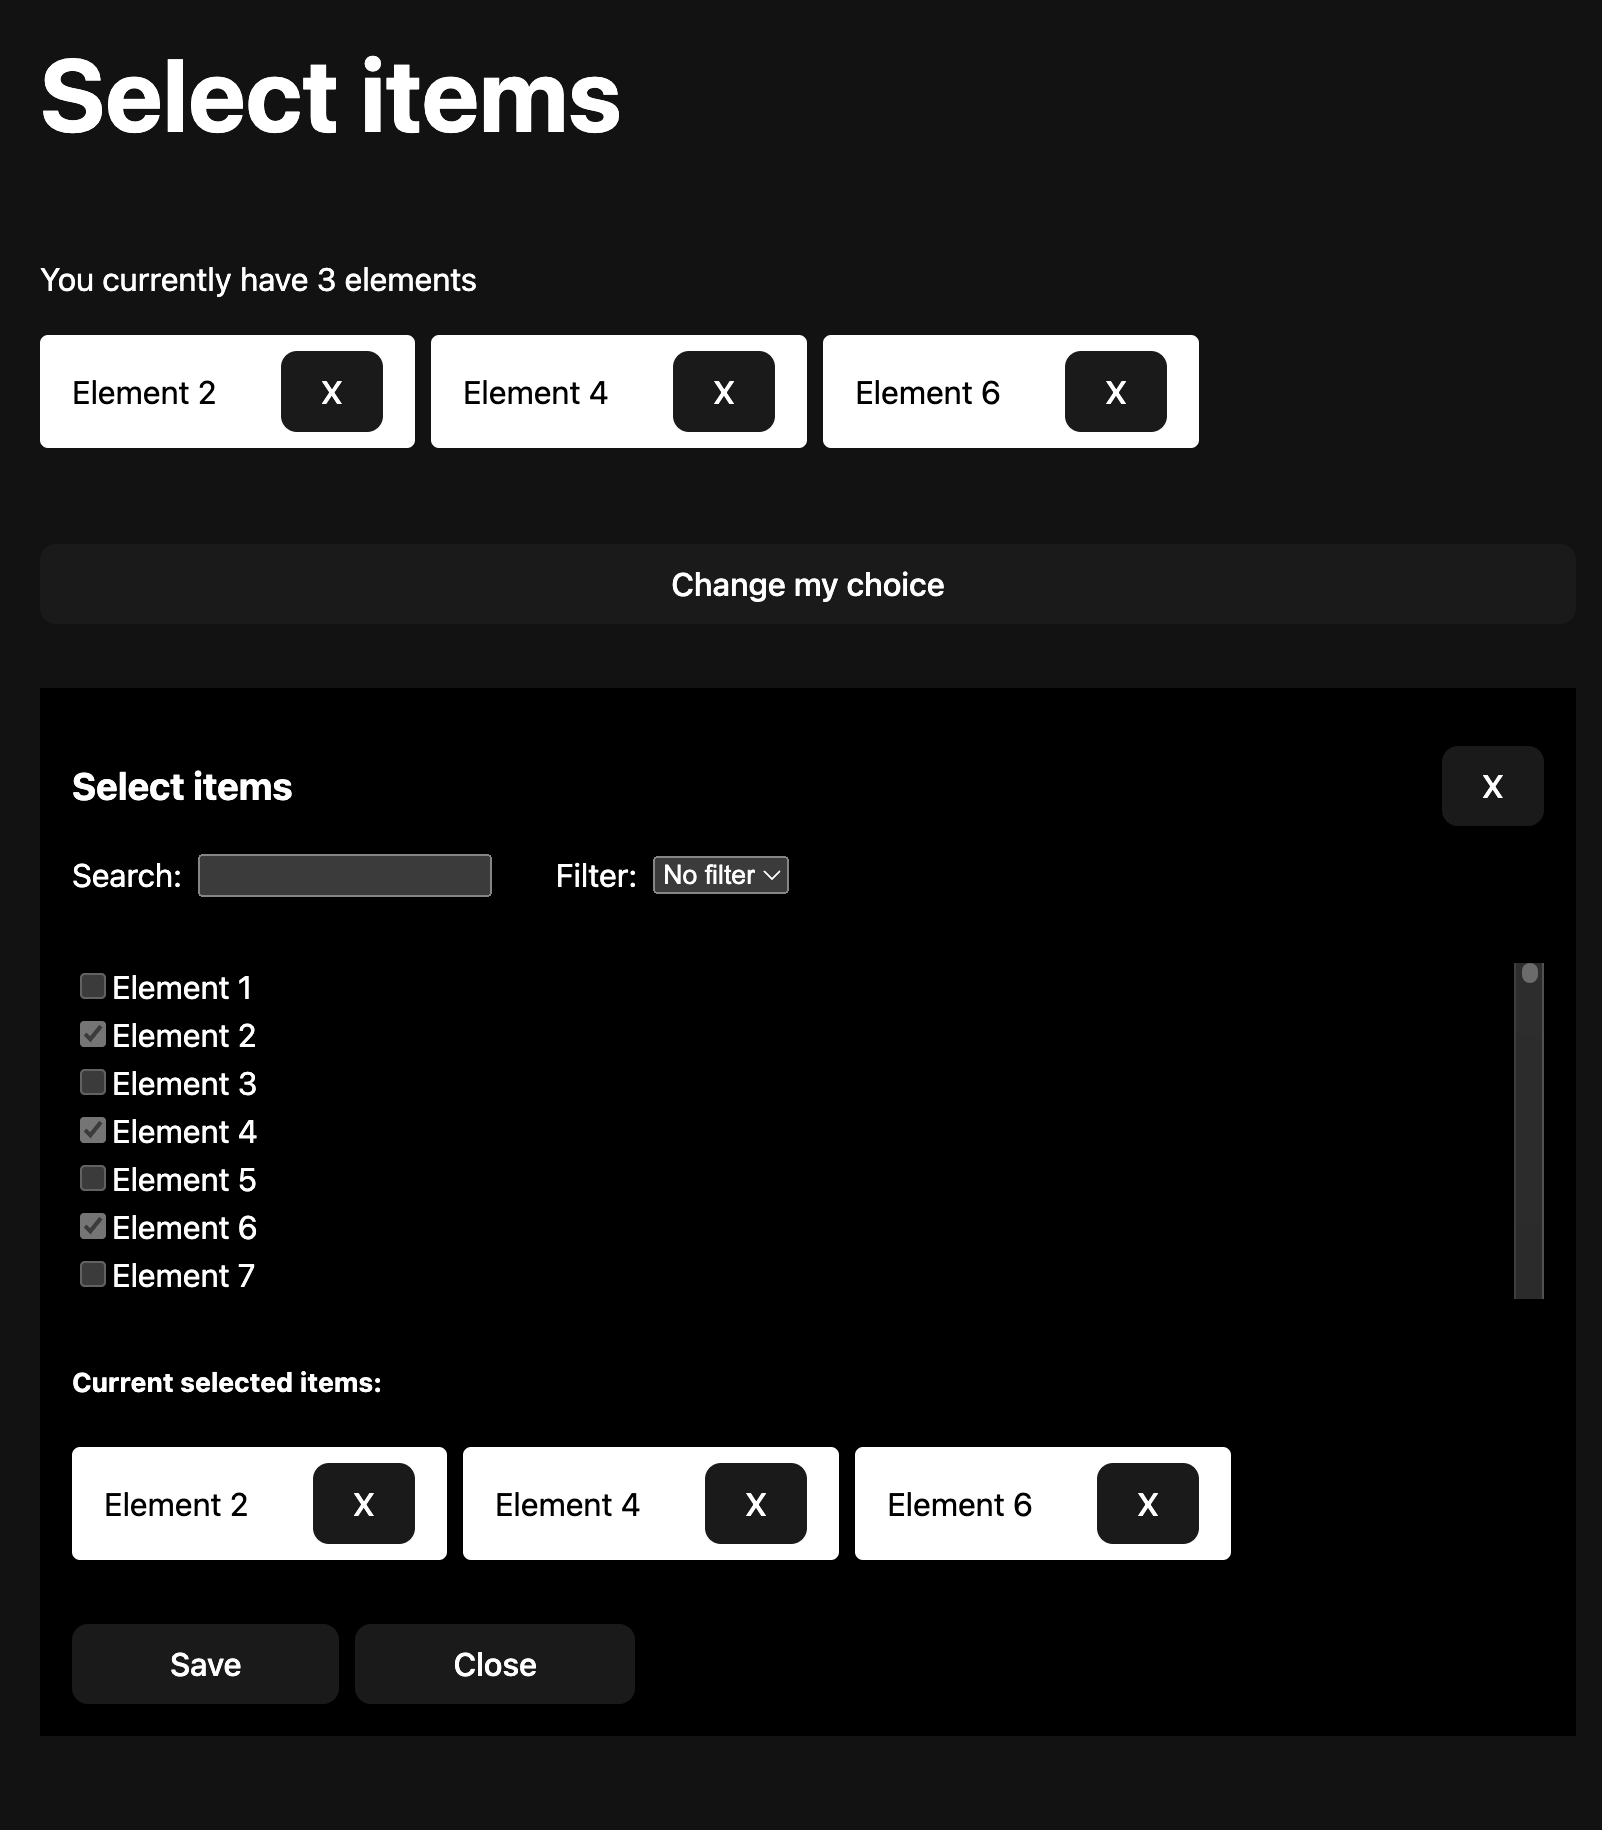
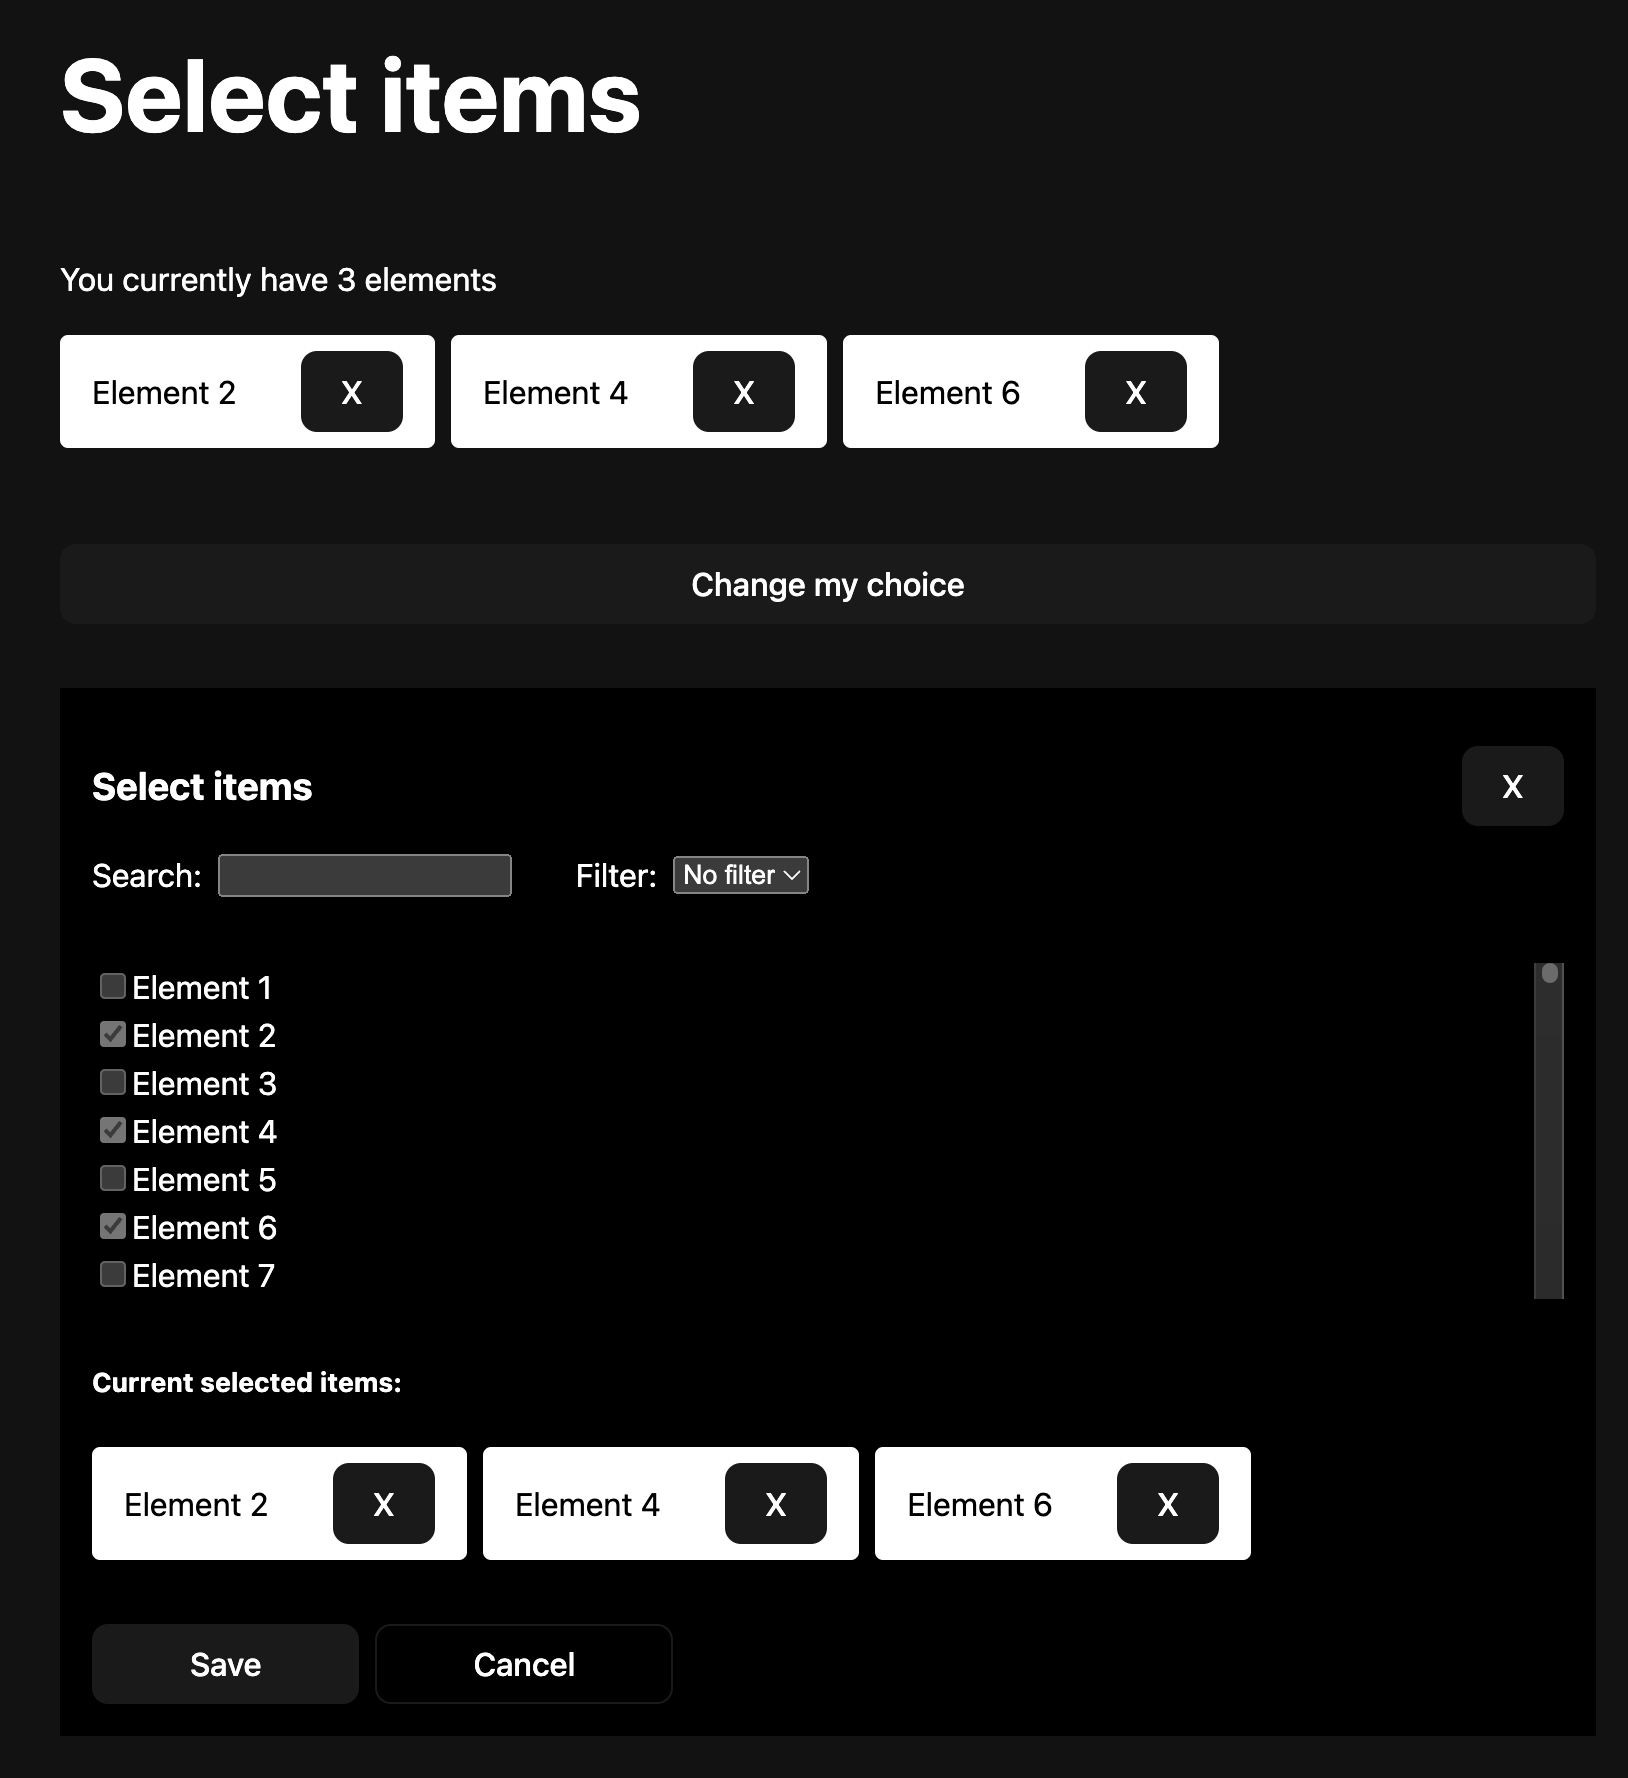
Minor updates

diff --git a/src/widgets/ElementWidget/index.tsx b/src/widgets/ElementWidget/index.tsx
@@ -57,11 +57,11 @@ const ElementWidget = ({
         />
       </div>
       <div className={styles.elementWidget__actArea}>
-        <button className={styles.elementWidget__actArea__button} onClick={handleSave}>
+        <button onClick={handleSave}>
           Save
         </button>
-        <button className={styles.elementWidget__actArea__button} onClick={onClose}>
-          Close
+        <button className={styles.elementWidget__actArea__cancelButton} onClick={onClose}>
+          Cancel
         </button>
       </div>
     </section>

diff --git a/src/widgets/ElementWidget/ElementWidget.module.css b/src/widgets/ElementWidget/ElementWidget.module.css
@@ -21,6 +21,11 @@
   margin-top: 2rem;
 }
 
-.elementWidget__actArea__button {
+.elementWidget__actArea button {
   padding-inline: 3rem;
+}
+
+.elementWidget__actArea__cancelButton {
+  background-color: transparent;
+  border-color: var(--color-black1a);
 }
